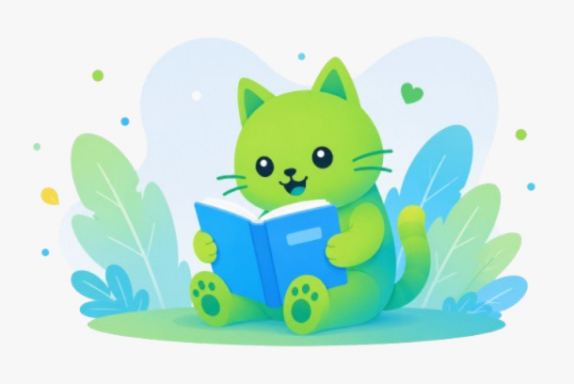
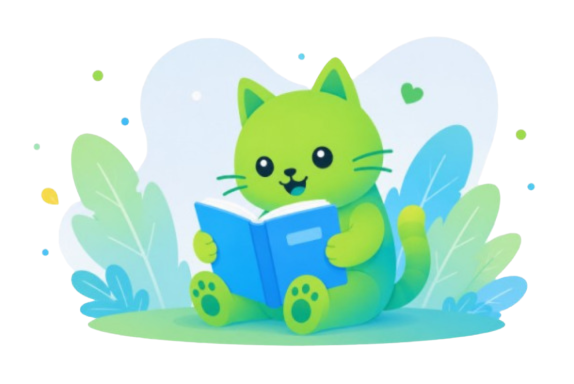
centraliza conteudo das paginas

diff --git a/static/css/home.css b/static/css/home.css
@@ -294,11 +294,13 @@ color: var(--cor-texto-esmaecido);
 /* ---------- Corpo com scroll interno ---------- */
 
 .conteudo-corpo {
-flex: 1;
-overflow-y: auto;
-padding: 1.25rem 2rem 2rem;
-}
-
+    flex: 1;
+    overflow-y: auto;
+    padding: 1.25rem 2rem 2rem;
+    max-width: 1100px;
+    margin: 0 auto;
+    width: 100%;
+    }
 /* ---------- Saudação ---------- */
 
 .saudacao {

diff --git a/static/css/sobre.css b/static/css/sobre.css
@@ -394,11 +394,13 @@ color: var(--cor-texto-esmaecido);
 /* ---------- Corpo com scroll interno ---------- */
 
 .conteudo-corpo {
-flex: 1;
-overflow-y: auto;
-padding: 1.25rem 2rem 2rem;
-}
-
+    flex: 1;
+    overflow-y: auto;
+    padding: 1.25rem 2rem 2rem;
+    max-width: 1100px;
+    margin: 0 auto;
+    width: 100%;
+    }
 /* ---------- Saudação ---------- */
 
 .saudacao {

diff --git a/static/css/relatorios.css b/static/css/relatorios.css
@@ -117,6 +117,12 @@ font-size: 0.72rem;
 color: var(--cor-texto-esmaecido);
 }
 
+.gato_lendo {
+    width: 170px;
+    height: auto;
+    flex-shrink: 0;
+}
+
 /* ========================================= */
 /* LINHA DE GRÁFICOS */
 /* ========================================= */

diff --git a/templates/relatorios.html b/templates/relatorios.html
@@ -245,6 +245,7 @@
 
             <img
                 src="/img/gatografico.png"
+                class="gato_lendo"
                 alt="Mascote"
             >
 
